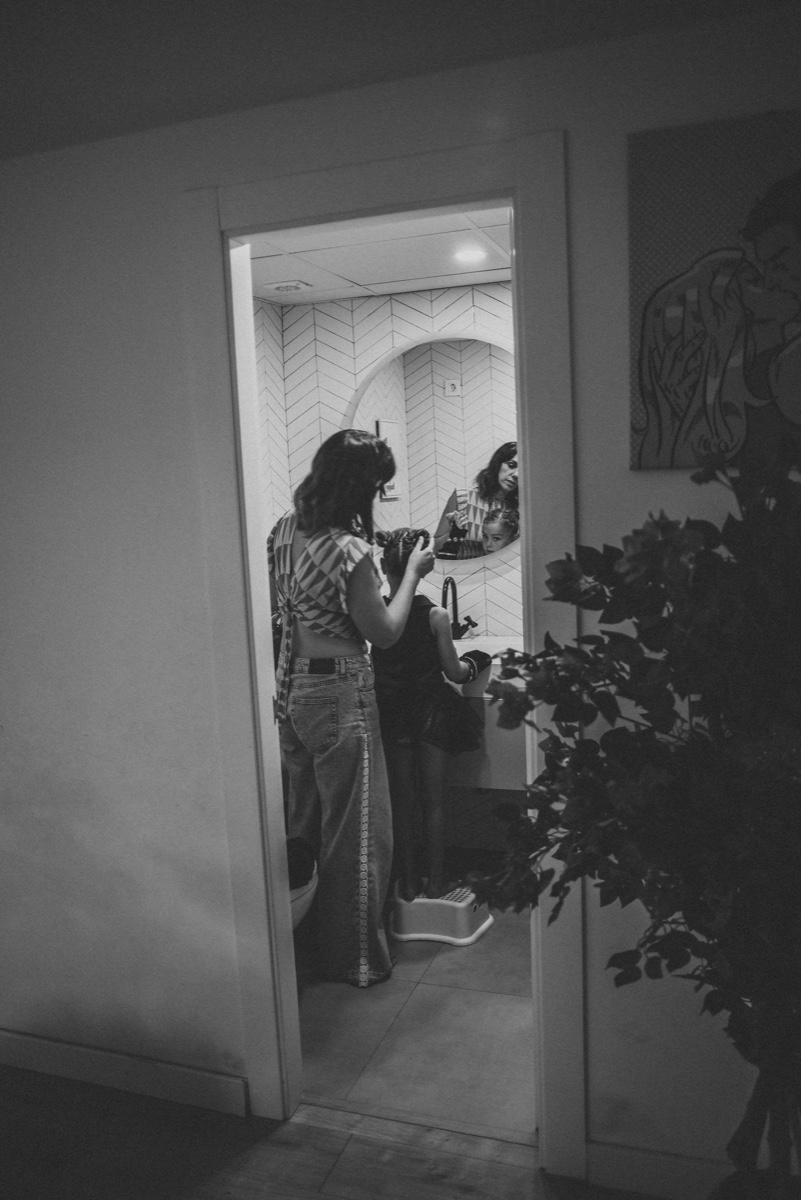
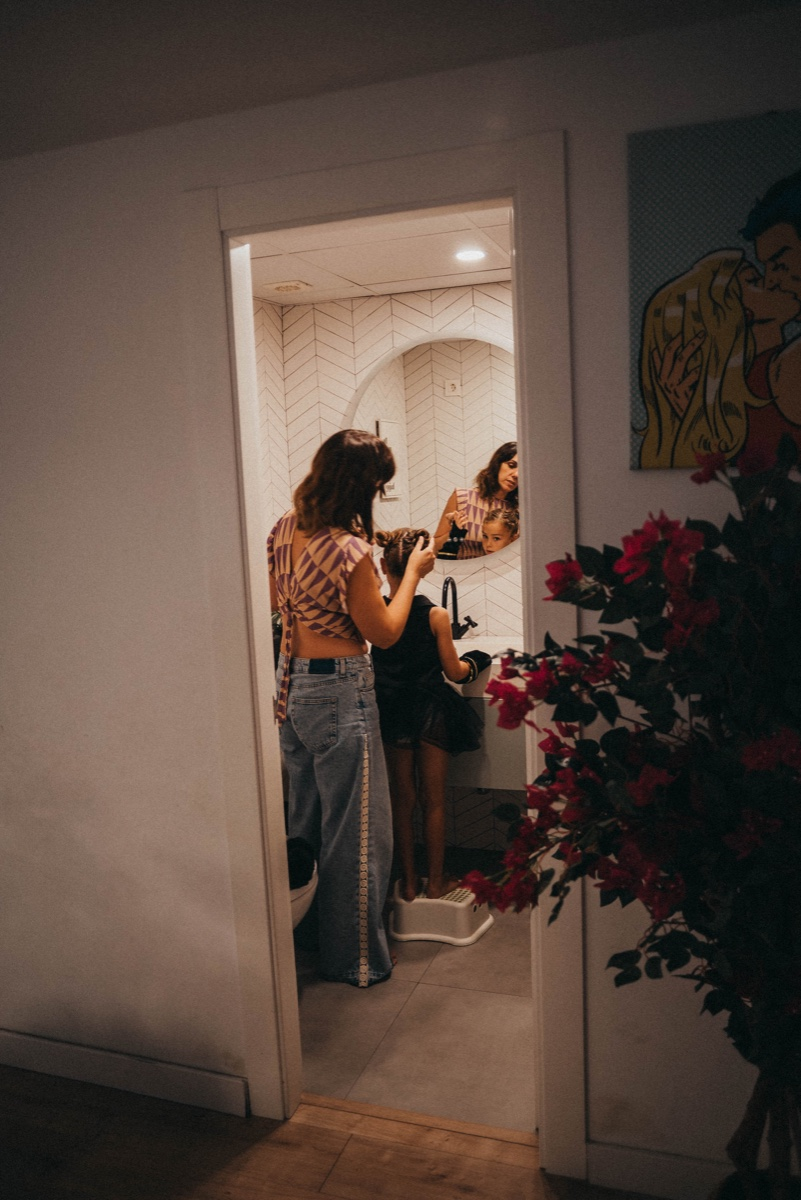
Olivia & Elvira: foto del baño a color

diff --git a/en/film/homeless-world-cup-2019-uefa-s-respect-day/index.html b/en/film/homeless-world-cup-2019-uefa-s-respect-day/index.html
@@ -9,7 +9,7 @@
 
 <link rel="alternate" hreflang="es" href="/es/film/homeless-world-cup-2019-uefa-s-respect-day/">
 <link rel="preload" href="/assets/fonts/inter-tight-400.woff2" as="font" type="font/woff2" crossorigin>
-<link rel="stylesheet" href="/assets/css/style.css?v=1794572232770">
+<link rel="stylesheet" href="/assets/css/style.css?v=1794572552244">
 <script>try{var r=document.referrer,m=r&&r.indexOf(location.origin)===0?r.slice(location.origin.length):"";if(/^\/(es|en)\/(film|photo)\/[^\/]+\//.test(m))document.documentElement.classList.add("brand-done")}catch(e){}</script>
 </head>
 <body class="has-compact">

diff --git a/es/film/homeless-world-cup-2019-uefa-s-respect-day/index.html b/es/film/homeless-world-cup-2019-uefa-s-respect-day/index.html
@@ -9,7 +9,7 @@
 
 <link rel="alternate" hreflang="en" href="/en/film/homeless-world-cup-2019-uefa-s-respect-day/">
 <link rel="preload" href="/assets/fonts/inter-tight-400.woff2" as="font" type="font/woff2" crossorigin>
-<link rel="stylesheet" href="/assets/css/style.css?v=1794572232770">
+<link rel="stylesheet" href="/assets/css/style.css?v=1794572552244">
 <script>try{var r=document.referrer,m=r&&r.indexOf(location.origin)===0?r.slice(location.origin.length):"";if(/^\/(es|en)\/(film|photo)\/[^\/]+\//.test(m))document.documentElement.classList.add("brand-done")}catch(e){}</script>
 </head>
 <body class="has-compact">

diff --git a/en/film/homeless-world-cup-2017-dulce-s-story/index.html b/en/film/homeless-world-cup-2017-dulce-s-story/index.html
@@ -9,7 +9,7 @@
 
 <link rel="alternate" hreflang="es" href="/es/film/homeless-world-cup-2017-dulce-s-story/">
 <link rel="preload" href="/assets/fonts/inter-tight-400.woff2" as="font" type="font/woff2" crossorigin>
-<link rel="stylesheet" href="/assets/css/style.css?v=1794572232770">
+<link rel="stylesheet" href="/assets/css/style.css?v=1794572552244">
 <script>try{var r=document.referrer,m=r&&r.indexOf(location.origin)===0?r.slice(location.origin.length):"";if(/^\/(es|en)\/(film|photo)\/[^\/]+\//.test(m))document.documentElement.classList.add("brand-done")}catch(e){}</script>
 </head>
 <body class="has-compact">

diff --git a/es/film/homeless-world-cup-2017-dulce-s-story/index.html b/es/film/homeless-world-cup-2017-dulce-s-story/index.html
@@ -9,7 +9,7 @@
 
 <link rel="alternate" hreflang="en" href="/en/film/homeless-world-cup-2017-dulce-s-story/">
 <link rel="preload" href="/assets/fonts/inter-tight-400.woff2" as="font" type="font/woff2" crossorigin>
-<link rel="stylesheet" href="/assets/css/style.css?v=1794572232770">
+<link rel="stylesheet" href="/assets/css/style.css?v=1794572552244">
 <script>try{var r=document.referrer,m=r&&r.indexOf(location.origin)===0?r.slice(location.origin.length):"";if(/^\/(es|en)\/(film|photo)\/[^\/]+\//.test(m))document.documentElement.classList.add("brand-done")}catch(e){}</script>
 </head>
 <body class="has-compact">

diff --git a/en/film/street-soccer-india-s-experience/index.html b/en/film/street-soccer-india-s-experience/index.html
@@ -9,7 +9,7 @@
 
 <link rel="alternate" hreflang="es" href="/es/film/street-soccer-india-s-experience/">
 <link rel="preload" href="/assets/fonts/inter-tight-400.woff2" as="font" type="font/woff2" crossorigin>
-<link rel="stylesheet" href="/assets/css/style.css?v=1794572232770">
+<link rel="stylesheet" href="/assets/css/style.css?v=1794572552244">
 <script>try{var r=document.referrer,m=r&&r.indexOf(location.origin)===0?r.slice(location.origin.length):"";if(/^\/(es|en)\/(film|photo)\/[^\/]+\//.test(m))document.documentElement.classList.add("brand-done")}catch(e){}</script>
 </head>
 <body class="has-compact">

diff --git a/es/film/street-soccer-india-s-experience/index.html b/es/film/street-soccer-india-s-experience/index.html
@@ -9,7 +9,7 @@
 
 <link rel="alternate" hreflang="en" href="/en/film/street-soccer-india-s-experience/">
 <link rel="preload" href="/assets/fonts/inter-tight-400.woff2" as="font" type="font/woff2" crossorigin>
-<link rel="stylesheet" href="/assets/css/style.css?v=1794572232770">
+<link rel="stylesheet" href="/assets/css/style.css?v=1794572552244">
 <script>try{var r=document.referrer,m=r&&r.indexOf(location.origin)===0?r.slice(location.origin.length):"";if(/^\/(es|en)\/(film|photo)\/[^\/]+\//.test(m))document.documentElement.classList.add("brand-done")}catch(e){}</script>
 </head>
 <body class="has-compact">

diff --git a/en/film/historias-de-amistad-trailer/index.html b/en/film/historias-de-amistad-trailer/index.html
@@ -9,7 +9,7 @@
 
 <link rel="alternate" hreflang="es" href="/es/film/historias-de-amistad-trailer/">
 <link rel="preload" href="/assets/fonts/inter-tight-400.woff2" as="font" type="font/woff2" crossorigin>
-<link rel="stylesheet" href="/assets/css/style.css?v=1794572232770">
+<link rel="stylesheet" href="/assets/css/style.css?v=1794572552244">
 <script>try{var r=document.referrer,m=r&&r.indexOf(location.origin)===0?r.slice(location.origin.length):"";if(/^\/(es|en)\/(film|photo)\/[^\/]+\//.test(m))document.documentElement.classList.add("brand-done")}catch(e){}</script>
 </head>
 <body class="has-compact">

diff --git a/es/film/historias-de-amistad-trailer/index.html b/es/film/historias-de-amistad-trailer/index.html
@@ -9,7 +9,7 @@
 
 <link rel="alternate" hreflang="en" href="/en/film/historias-de-amistad-trailer/">
 <link rel="preload" href="/assets/fonts/inter-tight-400.woff2" as="font" type="font/woff2" crossorigin>
-<link rel="stylesheet" href="/assets/css/style.css?v=1794572232770">
+<link rel="stylesheet" href="/assets/css/style.css?v=1794572552244">
 <script>try{var r=document.referrer,m=r&&r.indexOf(location.origin)===0?r.slice(location.origin.length):"";if(/^\/(es|en)\/(film|photo)\/[^\/]+\//.test(m))document.documentElement.classList.add("brand-done")}catch(e){}</script>
 </head>
 <body class="has-compact">

diff --git a/en/film/street-soccer-andy-s-story/index.html b/en/film/street-soccer-andy-s-story/index.html
@@ -9,7 +9,7 @@
 
 <link rel="alternate" hreflang="es" href="/es/film/street-soccer-andy-s-story/">
 <link rel="preload" href="/assets/fonts/inter-tight-400.woff2" as="font" type="font/woff2" crossorigin>
-<link rel="stylesheet" href="/assets/css/style.css?v=1794572232770">
+<link rel="stylesheet" href="/assets/css/style.css?v=1794572552244">
 <script>try{var r=document.referrer,m=r&&r.indexOf(location.origin)===0?r.slice(location.origin.length):"";if(/^\/(es|en)\/(film|photo)\/[^\/]+\//.test(m))document.documentElement.classList.add("brand-done")}catch(e){}</script>
 </head>
 <body class="has-compact">

diff --git a/es/film/street-soccer-andy-s-story/index.html b/es/film/street-soccer-andy-s-story/index.html
@@ -9,7 +9,7 @@
 
 <link rel="alternate" hreflang="en" href="/en/film/street-soccer-andy-s-story/">
 <link rel="preload" href="/assets/fonts/inter-tight-400.woff2" as="font" type="font/woff2" crossorigin>
-<link rel="stylesheet" href="/assets/css/style.css?v=1794572232770">
+<link rel="stylesheet" href="/assets/css/style.css?v=1794572552244">
 <script>try{var r=document.referrer,m=r&&r.indexOf(location.origin)===0?r.slice(location.origin.length):"";if(/^\/(es|en)\/(film|photo)\/[^\/]+\//.test(m))document.documentElement.classList.add("brand-done")}catch(e){}</script>
 </head>
 <body class="has-compact">

diff --git a/en/film/srna-francisco-s-story/index.html b/en/film/srna-francisco-s-story/index.html
@@ -9,7 +9,7 @@
 
 <link rel="alternate" hreflang="es" href="/es/film/srna-francisco-s-story/">
 <link rel="preload" href="/assets/fonts/inter-tight-400.woff2" as="font" type="font/woff2" crossorigin>
-<link rel="stylesheet" href="/assets/css/style.css?v=1794572232770">
+<link rel="stylesheet" href="/assets/css/style.css?v=1794572552244">
 <script>try{var r=document.referrer,m=r&&r.indexOf(location.origin)===0?r.slice(location.origin.length):"";if(/^\/(es|en)\/(film|photo)\/[^\/]+\//.test(m))document.documentElement.classList.add("brand-done")}catch(e){}</script>
 </head>
 <body class="has-compact">

diff --git a/es/film/srna-francisco-s-story/index.html b/es/film/srna-francisco-s-story/index.html
@@ -9,7 +9,7 @@
 
 <link rel="alternate" hreflang="en" href="/en/film/srna-francisco-s-story/">
 <link rel="preload" href="/assets/fonts/inter-tight-400.woff2" as="font" type="font/woff2" crossorigin>
-<link rel="stylesheet" href="/assets/css/style.css?v=1794572232770">
+<link rel="stylesheet" href="/assets/css/style.css?v=1794572552244">
 <script>try{var r=document.referrer,m=r&&r.indexOf(location.origin)===0?r.slice(location.origin.length):"";if(/^\/(es|en)\/(film|photo)\/[^\/]+\//.test(m))document.documentElement.classList.add("brand-done")}catch(e){}</script>
 </head>
 <body class="has-compact">
